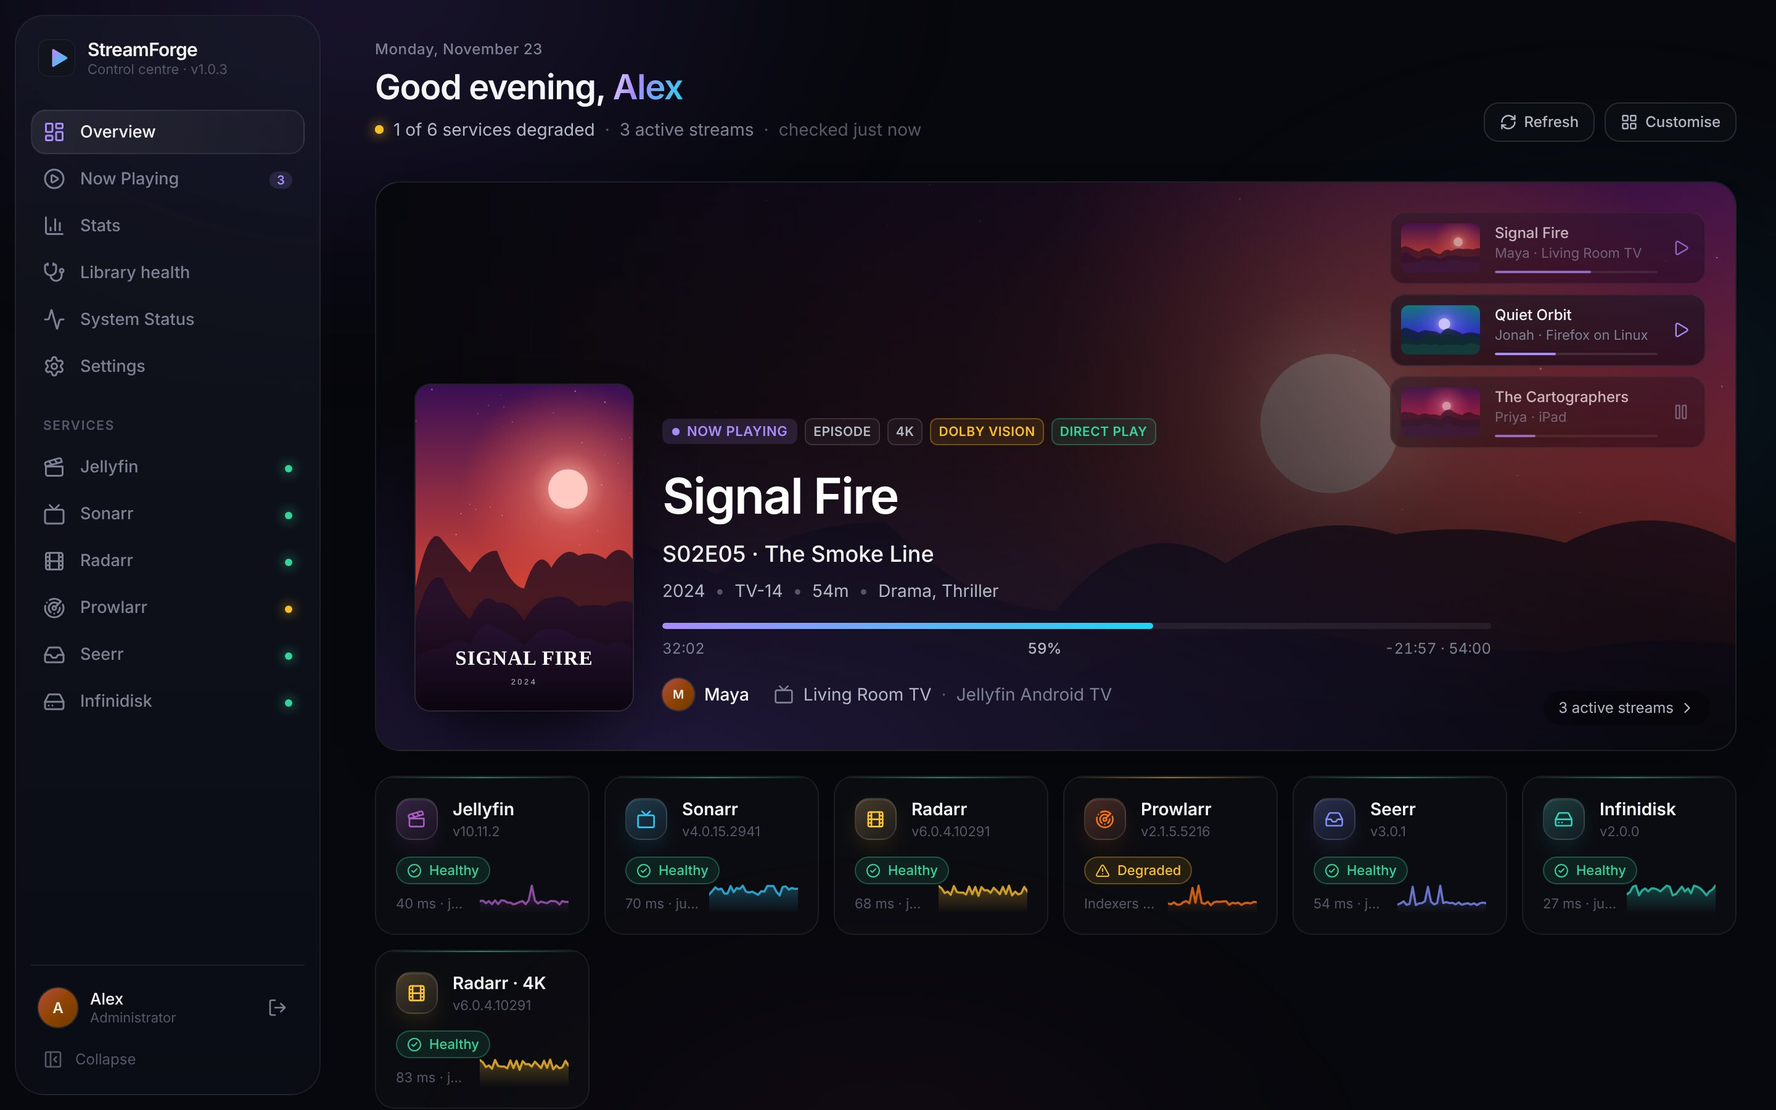
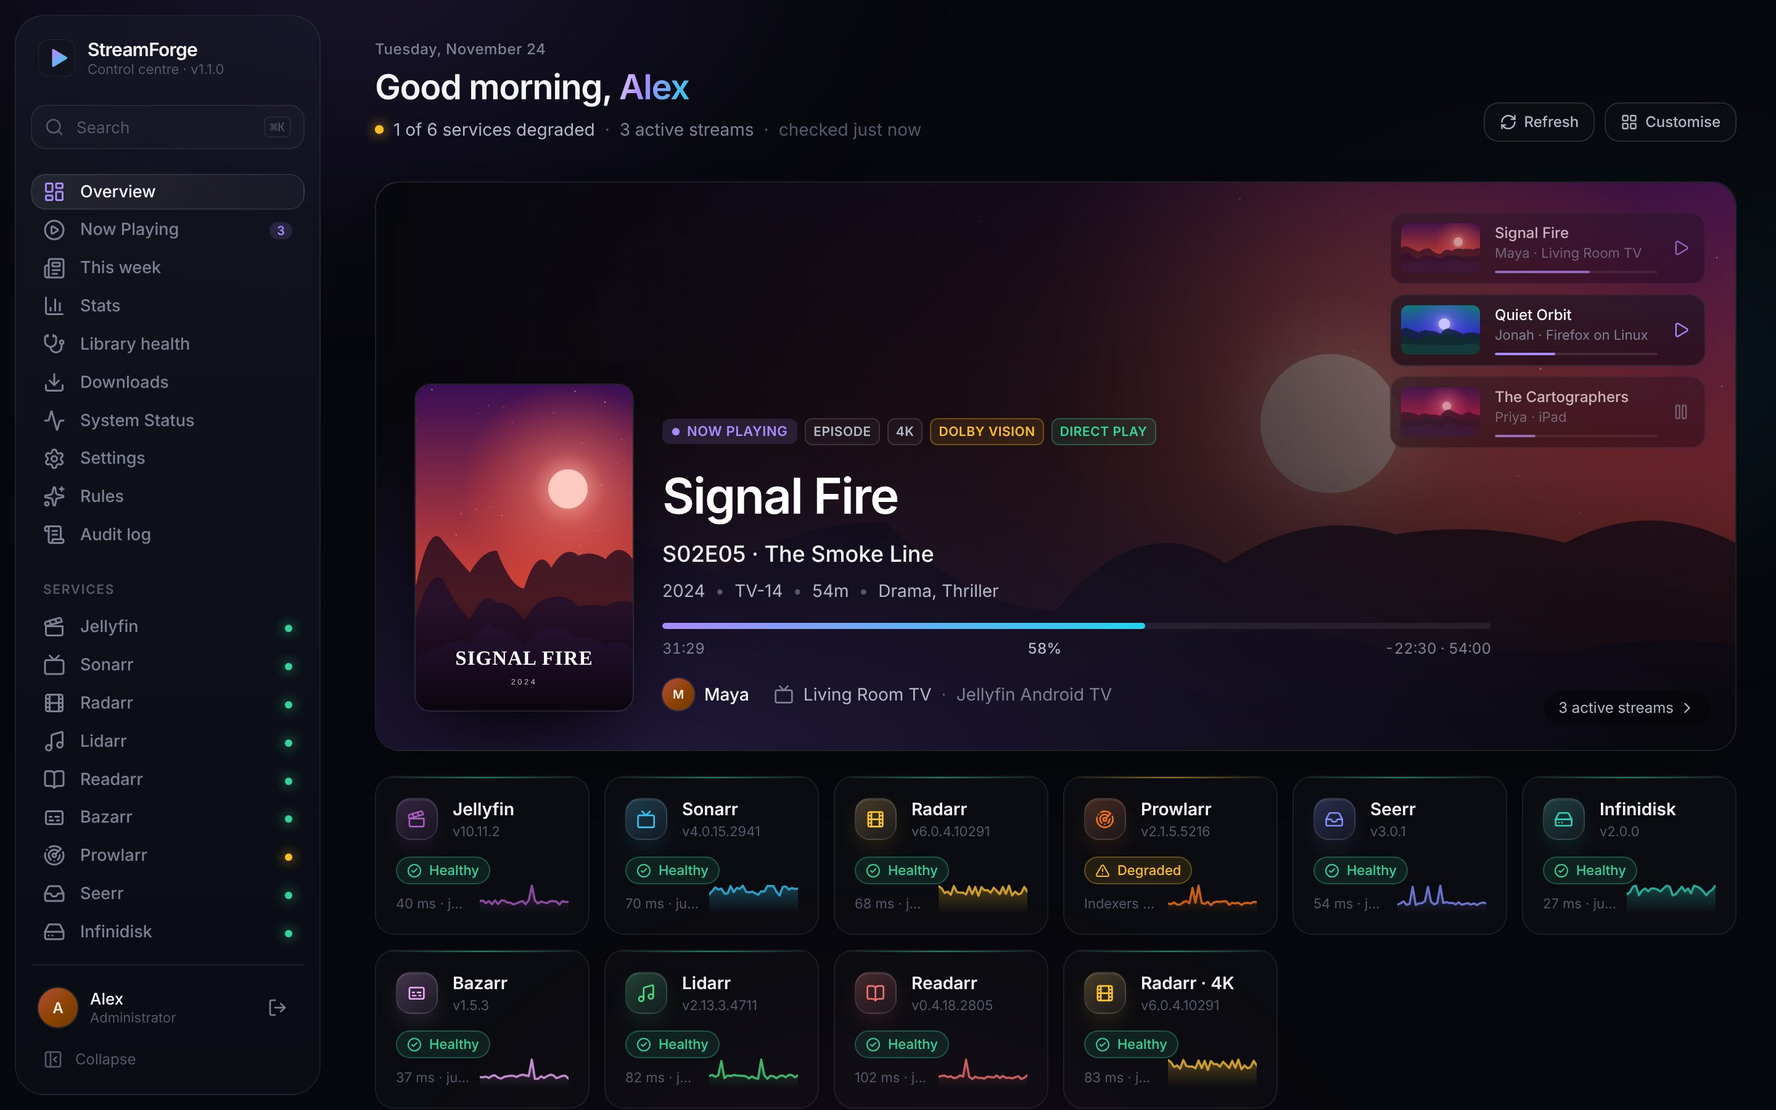
docs: new screenshots, and the new features on the website and README
Re-creates every screenshot from the demo data and adds Downloads, Search,
the personal page, the weekly digest, Rules, the audit log and Bazarr. The
website gets the new services, feature cards, showcase sections for
Downloads, Search and the personal page, a bigger gallery and new security
cards. The screenshot script now captures the new pages.

Claude-Session: https://claude.ai/code/session_01FvSRRkytaiZHLwhNqhEyPv

diff --git a/site/index.html b/site/index.html
@@ -4,12 +4,12 @@
   <meta charset="utf-8">
   <meta name="viewport" content="width=device-width, initial-scale=1">
   <title>StreamForge — one dashboard for your Jellyfin media stack</title>
-  <meta name="description" content="A self-hosted control centre for Jellyfin, Sonarr, Radarr, Prowlarr, Seerr and Infinidisk: live streams, service health, downloads, requests and storage in one place, with auto-import, stalled-download cleanup and notifications.">
+  <meta name="description" content="A self-hosted control centre for Jellyfin, Sonarr, Radarr, Lidarr, Readarr, Bazarr, Prowlarr, Seerr, Infinidisk and your download clients: live streams, service health, downloads, requests and storage in one place, with global search, automation rules, notifications, single sign-on and two-factor sign-in.">
   <meta name="theme-color" content="#0b0c12">
   <link rel="icon" href="favicon.svg" type="image/svg+xml">
   <meta property="og:type" content="website">
   <meta property="og:title" content="StreamForge — one dashboard for your Jellyfin media stack">
-  <meta property="og:description" content="Live streams, service health, downloads, requests and storage for Jellyfin and the *arr stack, in one self-hosted dashboard.">
+  <meta property="og:description" content="Live streams, service health, downloads, requests, search and automation for Jellyfin and the *arr stack, in one self-hosted dashboard.">
   <meta property="og:image" content="https://ashveebee.github.io/streamforge/screenshots/dashboard.jpg">
   <meta name="twitter:card" content="summary_large_image">
   <link rel="preconnect" href="https://fonts.googleapis.com">
@@ -36,6 +36,10 @@
       --prowlarr: #fe7a34;
       --seerr: #6d6af8;
       --infinidisk: #2dd4bf;
+      --lidarr: #4ade80;
+      --readarr: #f87171;
+      --bazarr: #f0abfc;
+      --downloads: #60a5fa;
       --radius: 20px;
       --max: 1160px;
     }
@@ -202,6 +206,13 @@
     <symbol id="i-shield" viewBox="0 0 24 24"><path d="M20 13c0 5-3.5 7.5-7.66 8.95a1 1 0 0 1-.67-.01C7.5 20.5 4 18 4 13V6a1 1 0 0 1 1-1c2 0 4.5-1.2 6.24-2.72a1.17 1.17 0 0 1 1.52 0C14.51 3.81 17 5 19 5a1 1 0 0 1 1 1z"/><path d="m9 12 2 2 4-4"/></symbol>
     <symbol id="i-key" viewBox="0 0 24 24"><path d="m15.5 7.5 2.3 2.3a1 1 0 0 0 1.4 0l2.1-2.1a1 1 0 0 0 0-1.4L19 4"/><path d="m21 2-9.6 9.6"/><circle cx="7.5" cy="15.5" r="5.5"/></symbol>
     <symbol id="i-box" viewBox="0 0 24 24"><path d="M21 8a2 2 0 0 0-1-1.73l-7-4a2 2 0 0 0-2 0l-7 4A2 2 0 0 0 3 8v8a2 2 0 0 0 1 1.73l7 4a2 2 0 0 0 2 0l7-4A2 2 0 0 0 21 16Z"/><path d="m3.3 7 8.7 5 8.7-5"/><path d="M12 22V12"/></symbol>
+    <symbol id="i-search" viewBox="0 0 24 24"><circle cx="11" cy="11" r="8"/><path d="m21 21-4.3-4.3"/></symbol>
+    <symbol id="i-gauge" viewBox="0 0 24 24"><path d="m12 14 4-4"/><path d="M3.34 19a10 10 0 1 1 17.32 0"/></symbol>
+    <symbol id="i-captions" viewBox="0 0 24 24"><rect width="18" height="14" x="3" y="5" rx="2"/><path d="M7 15h4"/><path d="M15 15h2"/><path d="M7 11h2"/><path d="M13 11h4"/></symbol>
+    <symbol id="i-sparkles" viewBox="0 0 24 24"><path d="M9.94 15.5A2 2 0 0 0 8.5 14.06l-6.14-1.58a.5.5 0 0 1 0-.96L8.5 9.94A2 2 0 0 0 9.94 8.5l1.58-6.14a.5.5 0 0 1 .96 0l1.58 6.14a2 2 0 0 0 1.44 1.44l6.14 1.58a.5.5 0 0 1 0 .96L15.5 14.06a2 2 0 0 0-1.44 1.44l-1.58 6.14a.5.5 0 0 1-.96 0z"/></symbol>
+    <symbol id="i-recycle" viewBox="0 0 24 24"><path d="M7 19H4.8a1.8 1.8 0 0 1-1.6-2.7l3.9-6.7"/><path d="m11 19 3-3-3-3"/><path d="M14 16H20a1.8 1.8 0 0 0 1.6-2.7l-1.4-2.4"/><path d="m8.6 6.2 1.9-3.3a1.8 1.8 0 0 1 3.1 0l3.9 6.7"/><path d="m13.4 9.9 4.1 1.1 1.1-4.1"/><path d="m7 10.6-4.1-1.1L1.8 13.6"/></symbol>
+    <symbol id="i-scroll" viewBox="0 0 24 24"><path d="M15 12h-5"/><path d="M15 8h-5"/><path d="M19 17V5a2 2 0 0 0-2-2H4"/><path d="M8 21h12a2 2 0 0 0 2-2v-1a1 1 0 0 0-1-1H11a1 1 0 0 0-1 1v1a2 2 0 1 1-4 0V5a2 2 0 1 0-4 0v2a1 1 0 0 0 1 1h3"/></symbol>
+    <symbol id="i-archive" viewBox="0 0 24 24"><rect width="20" height="5" x="2" y="3" rx="1"/><path d="M4 8v11a2 2 0 0 0 2 2h12a2 2 0 0 0 2-2V8"/><path d="M10 12h4"/></symbol>
     <symbol id="i-check" viewBox="0 0 24 24"><path d="M20 6 9 17l-5-5"/></symbol>
     <symbol id="i-x" viewBox="0 0 24 24"><path d="M18 6 6 18"/><path d="m6 6 12 12"/></symbol>
     <symbol id="i-copy" viewBox="0 0 24 24"><rect width="14" height="14" x="8" y="8" rx="2"/><path d="M4 16c-1.1 0-2-.9-2-2V4c0-1.1.9-2 2-2h10c1.1 0 2 .9 2 2"/></symbol>
@@ -241,7 +252,7 @@
       <div class="wrap">
         <span class="pill"><span class="dot"></span> Self-hosted · Free and open source</span>
         <h1>Your whole media stack, <span class="grad-text">one dashboard.</span></h1>
-        <p class="lede">StreamForge brings Jellyfin, Sonarr, Radarr, Prowlarr, Seerr and Infinidisk together: who's watching, what's downloading, what's been requested and whether everything is healthy, live.</p>
+        <p class="lede">StreamForge brings Jellyfin, the *arr apps, Seerr, your download clients and your storage together: who's watching, what's downloading, what's been requested and whether everything is healthy, live.</p>
         <div class="cta">
           <a class="btn btn-primary" href="#install">Get started <svg class="i"><use href="#i-arrow"/></svg></a>
           <a class="btn btn-ghost" href="https://github.com/ashveebee/streamforge"><svg class="i"><use href="#i-github"/></svg> View on GitHub</a>
@@ -250,9 +261,13 @@
           <span class="chip" style="--c:var(--jellyfin)"><i></i>Jellyfin</span>
           <span class="chip" style="--c:var(--sonarr)"><i></i>Sonarr</span>
           <span class="chip" style="--c:var(--radarr)"><i></i>Radarr</span>
+          <span class="chip" style="--c:var(--lidarr)"><i></i>Lidarr</span>
+          <span class="chip" style="--c:var(--readarr)"><i></i>Readarr</span>
+          <span class="chip" style="--c:var(--bazarr)"><i></i>Bazarr</span>
           <span class="chip" style="--c:var(--prowlarr)"><i></i>Prowlarr</span>
           <span class="chip" style="--c:var(--seerr)"><i></i>Seerr</span>
           <span class="chip" style="--c:var(--infinidisk)"><i></i>Infinidisk</span>
+          <span class="chip" style="--c:var(--downloads)"><i></i>qBittorrent · Transmission · SABnzbd · NZBGet</span>
         </div>
         <div class="frame reveal">
           <div class="bar" aria-hidden="true"><span></span><span></span><span></span></div>
@@ -266,7 +281,7 @@
         <div class="center">
           <div class="eyebrow">Features</div>
           <h2>Everything at a glance</h2>
-          <p class="section-lede">One place to see your server, instead of six browser tabs.</p>
+          <p class="section-lede">One place to see your server, instead of a dozen browser tabs.</p>
         </div>
         <div class="features">
           <article class="card reveal" style="--c:var(--jellyfin)">
@@ -298,6 +313,21 @@
             <div class="ico"><svg class="i"><use href="#i-settings"/></svg></div>
             <h3>Set up from the UI</h3>
             <p>Add each service's address and API key in Settings, test the connection and save. Switch off what you don't use. Changes apply instantly, with no config files or restarts.</p>
+          </article>
+          <article class="card reveal" style="--c:var(--downloads)">
+            <div class="ico"><svg class="i"><use href="#i-gauge"/></svg></div>
+            <h3>Download clients</h3>
+            <p>Real speeds from qBittorrent, Transmission, SABnzbd and NZBGet, every download in each client, and buttons to pause, remove or set speed limits.</p>
+          </article>
+          <article class="card reveal" style="--c:var(--cyan)">
+            <div class="ico"><svg class="i"><use href="#i-search"/></svg></div>
+            <h3>Search everything</h3>
+            <p>Press ⌘K to search Jellyfin and every *arr app at once. Request something new through Seerr, or add it straight to Sonarr or Radarr.</p>
+          </article>
+          <article class="card reveal" style="--c:var(--bazarr)">
+            <div class="ico"><svg class="i"><use href="#i-captions"/></svg></div>
+            <h3>Music, books and subtitles</h3>
+            <p>Lidarr and Readarr queues, releases and missing items, and Bazarr's missing subtitles with search buttons.</p>
           </article>
         </div>
       </div>
@@ -340,6 +370,21 @@
             <div class="ico"><svg class="i"><use href="#i-phone"/></svg></div>
             <h3>Install it like an app</h3>
             <p>Add StreamForge to your phone's home screen or your desktop. It opens like any other app, and push notifications reach your phone.</p>
+          </article>
+          <article class="card reveal" style="--c:var(--violet)">
+            <div class="ico"><svg class="i"><use href="#i-sparkles"/></svg></div>
+            <h3>Rules</h3>
+            <p>If a disk is nearly full, pause the download clients. If downloads stall, run the cleanup. If a service stays down, tell you. Rules never delete anything.</p>
+          </article>
+          <article class="card reveal" style="--c:var(--ok)">
+            <div class="ico"><svg class="i"><use href="#i-recycle"/></svg></div>
+            <h3>Cleanup suggestions</h3>
+            <p>Big movies and shows nobody has watched in months, ranked by the space they'd free. Keep them, stop monitoring them, or delete them.</p>
+          </article>
+          <article class="card reveal" style="--c:var(--radarr)">
+            <div class="ico"><svg class="i"><use href="#i-play"/></svg></div>
+            <h3>Transcode alerts</h3>
+            <p>Hear about it when too many streams transcode, bandwidth passes your limit, or someone transcodes 4K, and optionally message the viewer.</p>
           </article>
         </div>
       </div>
@@ -392,12 +437,61 @@
           <div class="shot"><img src="screenshots/settings.jpg" width="2880" height="2000" loading="lazy" alt="Settings page with an address and API key field for each service"></div>
         </div>
 
+        <div class="show flip reveal">
+          <div class="txt">
+            <div class="eyebrow">Downloads</div>
+            <h3>Every torrent and NZB, with real speeds</h3>
+            <p>Connect your download clients and see exactly what's moving, how fast, and what's stuck, across torrent and usenet.</p>
+            <ul class="ticks">
+              <li><svg class="i"><use href="#i-check"/></svg>qBittorrent, Transmission, SABnzbd and NZBGet</li>
+              <li><svg class="i"><use href="#i-check"/></svg>Live up and down speeds with 15 minutes of history</li>
+              <li><svg class="i"><use href="#i-check"/></svg>Pause, resume or remove, with or without files</li>
+              <li><svg class="i"><use href="#i-check"/></svg>Set speed limits per client</li>
+            </ul>
+          </div>
+          <div class="shot"><img src="screenshots/downloads.jpg" width="2880" height="2200" loading="lazy" alt="Downloads page with live transfer speeds and every download in qBittorrent and SABnzbd"></div>
+        </div>
+
+        <div class="show reveal">
+          <div class="txt">
+            <div class="eyebrow">Search</div>
+            <h3>Find anything, request anything</h3>
+            <p>One search box for your whole stack. See whether something is already in the library, which app manages it, or request it in one click.</p>
+            <ul class="ticks">
+              <li><svg class="i"><use href="#i-check"/></svg>Jellyfin, Sonarr, Radarr, Lidarr and Readarr at once</li>
+              <li><svg class="i"><use href="#i-check"/></svg>Requests go through Seerr in each person's own name</li>
+              <li><svg class="i"><use href="#i-check"/></svg>Admins can add titles straight to Sonarr or Radarr</li>
+              <li><svg class="i"><use href="#i-check"/></svg>Jump to any page from the keyboard</li>
+            </ul>
+          </div>
+          <div class="shot"><img src="screenshots/search.jpg" width="2880" height="1800" loading="lazy" alt="Search palette showing results from Jellyfin, Sonarr and Seerr with a Request button"></div>
+        </div>
+
+        <div class="show flip reveal">
+          <div class="txt">
+            <div class="eyebrow">For everyone</div>
+            <h3>A page for each person in the house</h3>
+            <p>Everyone who signs in gets their own page: what to watch next, what they've watched, how their requests are going, and where they're signed in.</p>
+            <ul class="ticks">
+              <li><svg class="i"><use href="#i-check"/></svg>Continue watching and next up</li>
+              <li><svg class="i"><use href="#i-check"/></svg>Their Seerr requests and their status</li>
+              <li><svg class="i"><use href="#i-check"/></svg>Sign out devices they don't recognise</li>
+              <li><svg class="i"><use href="#i-check"/></svg>Two-factor sign-in with any authenticator app</li>
+            </ul>
+          </div>
+          <div class="shot"><img src="screenshots/me.jpg" width="2880" height="3200" loading="lazy" alt="Personal page with continue watching, next up, requests, watch history and signed-in devices"></div>
+        </div>
+
         <div class="gallery">
           <a class="reveal" href="screenshots/jellyfin.jpg"><figure><img src="screenshots/jellyfin.jpg" width="2880" height="1800" loading="lazy" alt="Jellyfin page with libraries, server details and recently added items"><figcaption><b>Jellyfin.</b> Libraries, users, server details and new additions.</figcaption></figure></a>
           <a class="reveal" href="screenshots/sonarr.jpg"><figure><img src="screenshots/sonarr.jpg" width="2880" height="3400" loading="lazy" alt="Sonarr page with the download queue, episodes airing soon, auto-import and missing episodes"><figcaption><b>Sonarr and Radarr.</b> Queues, upcoming releases, missing items and auto-import.</figcaption></figure></a>
           <a class="reveal" href="screenshots/stats.jpg"><figure><img src="screenshots/stats.jpg" width="2880" height="2200" loading="lazy" alt="Stats page with plays per day split by direct play and transcode, and top viewers and titles"><figcaption><b>Stats.</b> Watch time, transcodes and who watches what.</figcaption></figure></a>
           <a class="reveal" href="screenshots/library.jpg"><figure><img src="screenshots/library.jpg" width="2880" height="1800" loading="lazy" alt="Library health page with incomplete series, upgrades available and mismatches with Jellyfin"><figcaption><b>Library health.</b> Gaps, upgrades and items out of sync.</figcaption></figure></a>
           <a class="reveal" href="screenshots/seerr.jpg"><figure><img src="screenshots/seerr.jpg" width="2880" height="1800" loading="lazy" alt="Seerr page with requests awaiting approval and recent requests"><figcaption><b>Seerr.</b> Pending approvals and recent requests.</figcaption></figure></a>
+          <a class="reveal" href="screenshots/digest.jpg"><figure><img src="screenshots/digest.jpg" width="2880" height="2200" loading="lazy" alt="Weekly digest page with new movies, new episodes and the most watched titles"><figcaption><b>Weekly digest.</b> What's new and what got watched, sent every week.</figcaption></figure></a>
+          <a class="reveal" href="screenshots/rules.jpg"><figure><img src="screenshots/rules.jpg" width="2880" height="1800" loading="lazy" alt="Rules page with automations such as pausing downloads when a disk is almost full"><figcaption><b>Rules.</b> If this happens, do that.</figcaption></figure></a>
+          <a class="reveal" href="screenshots/audit.jpg"><figure><img src="screenshots/audit.jpg" width="2880" height="1800" loading="lazy" alt="Audit log listing changes, approvals and sign-ins with who made them"><figcaption><b>Audit log.</b> Who changed what, and when.</figcaption></figure></a>
+          <a class="reveal" href="screenshots/bazarr.jpg"><figure><img src="screenshots/bazarr.jpg" width="2880" height="2200" loading="lazy" alt="Bazarr page with episodes and movies missing subtitles"><figcaption><b>Bazarr.</b> Missing subtitles, one click to search.</figcaption></figure></a>
           <a class="reveal" href="screenshots/infinidisk.jpg"><figure><img src="screenshots/infinidisk.jpg" width="2880" height="1800" loading="lazy" alt="Infinidisk page with storage capacity and the health of each drive"><figcaption><b>Infinidisk.</b> Capacity, drive health and temperatures.</figcaption></figure></a>
         </div>
         <p class="note center">Screenshots use the built-in demo data. All titles, people and artwork are fictional.</p>
@@ -437,7 +531,7 @@
           </div>
           <div class="card step reveal">
             <h3>Add your services</h3>
-            <p>In Settings, add the address and API key for Sonarr, Radarr, Prowlarr, Seerr and Infinidisk. Skip any you don't use.</p>
+            <p>In Settings, add the address and API key for Sonarr, Radarr, Lidarr, Readarr, Bazarr, Prowlarr, Seerr, Infinidisk and your download clients. Skip any you don't use.</p>
           </div>
         </div>
         <p class="note">Full guide, Docker networking tips, backups and troubleshooting are in the <a href="https://github.com/ashveebee/streamforge#installation">installation docs</a>. Want to look around first? Clone the repo and run <code>npm run demo</code>.</p>
@@ -453,6 +547,10 @@
           <div class="card reveal"><div class="ico" style="--c:var(--violet)"><svg class="i"><use href="#i-lock"/></svg></div><h3>Jellyfin sign-in</h3><p>Sign in with your existing Jellyfin account. Only administrators get in by default; you choose which pages the rest of the household sees.</p></div>
           <div class="card reveal"><div class="ico" style="--c:var(--cyan)"><svg class="i"><use href="#i-shield"/></svg></div><h3>Hardened by default</h3><p>CSRF protection, rate-limited login, a strict content security policy and artwork proxied through validated routes.</p></div>
           <div class="card reveal"><div class="ico" style="--c:var(--radarr)"><svg class="i"><use href="#i-box"/></svg></div><h3>Signed images</h3><p>Every release image ships with an SBOM and build provenance you can verify with <code>gh attestation verify</code>.</p></div>
+          <div class="card reveal"><div class="ico" style="--c:var(--seerr)"><svg class="i"><use href="#i-shield"/></svg></div><h3>Single sign-on and two-factor</h3><p>Sign in through Authentik, Authelia, Keycloak or any OpenID Connect provider, and protect password sign-ins with authenticator-app codes.</p></div>
+          <div class="card reveal"><div class="ico" style="--c:var(--jellyfin)"><svg class="i"><use href="#i-scroll"/></svg></div><h3>Audit log</h3><p>Every setting change, approval, stream control and sign-in is recorded with who did it and from where.</p></div>
+          <div class="card reveal"><div class="ico" style="--c:var(--infinidisk)"><svg class="i"><use href="#i-archive"/></svg></div><h3>Encrypted backups</h3><p>Download all your settings as one passphrase-encrypted file and restore it on a new server in seconds.</p></div>
+          <div class="card reveal"><div class="ico" style="--c:var(--cyan)"><svg class="i"><use href="#i-users"/></svg></div><h3>Your devices, your control</h3><p>Sessions survive restarts and upgrades, and everyone can see and sign out the devices they're signed in on.</p></div>
         </div>
       </div>
     </section>

diff --git a/README.md b/README.md
@@ -35,7 +35,20 @@ server.
     <td><a href="docs/screenshots/library.jpg"><img src="docs/screenshots/library.jpg" alt="Library health: incomplete series, upgrades available and mismatches with Jellyfin"></a><br><b>Library health.</b> Missing episodes, upgrades and items out of sync with Jellyfin.</td>
   </tr>
   <tr>
-    <td colspan="2"><a href="docs/screenshots/settings.jpg"><img src="docs/screenshots/settings.jpg" alt="Settings: connect each service with an address and API key, and test the connection"></a><br><b>Settings.</b> Connect services from the UI, test each connection and apply changes without a restart.</td>
+    <td><a href="docs/screenshots/downloads.jpg"><img src="docs/screenshots/downloads.jpg" alt="Downloads: live speeds and every download in qBittorrent and SABnzbd"></a><br><b>Downloads.</b> Real speeds and controls for your download clients.</td>
+    <td><a href="docs/screenshots/search.jpg"><img src="docs/screenshots/search.jpg" alt="Search: results from Jellyfin, Sonarr and Seerr with a Request button"></a><br><b>Search.</b> ⌘K searches everything and requests what's missing.</td>
+  </tr>
+  <tr>
+    <td><a href="docs/screenshots/me.jpg"><img src="docs/screenshots/me.jpg" alt="Personal page: continue watching, next up, requests, history and devices"></a><br><b>Your page.</b> Continue watching, requests, history and devices.</td>
+    <td><a href="docs/screenshots/digest.jpg"><img src="docs/screenshots/digest.jpg" alt="Weekly digest: new movies and episodes and the most watched titles"></a><br><b>Weekly digest.</b> What's new and what got watched.</td>
+  </tr>
+  <tr>
+    <td><a href="docs/screenshots/rules.jpg"><img src="docs/screenshots/rules.jpg" alt="Rules: automations such as pausing downloads when a disk is almost full"></a><br><b>Rules.</b> If this happens, do that.</td>
+    <td><a href="docs/screenshots/audit.jpg"><img src="docs/screenshots/audit.jpg" alt="Audit log: changes, approvals and sign-ins with who made them"></a><br><b>Audit log.</b> Who changed what, and when.</td>
+  </tr>
+  <tr>
+    <td><a href="docs/screenshots/bazarr.jpg"><img src="docs/screenshots/bazarr.jpg" alt="Bazarr: episodes and movies missing subtitles"></a><br><b>Bazarr.</b> Missing subtitles with search buttons.</td>
+    <td><a href="docs/screenshots/settings.jpg"><img src="docs/screenshots/settings.jpg" alt="Settings: connect each service with an address and API key, and test the connection"></a><br><b>Settings.</b> Connect services, download clients, SSO and backups from the UI.</td>
   </tr>
 </table>
 
